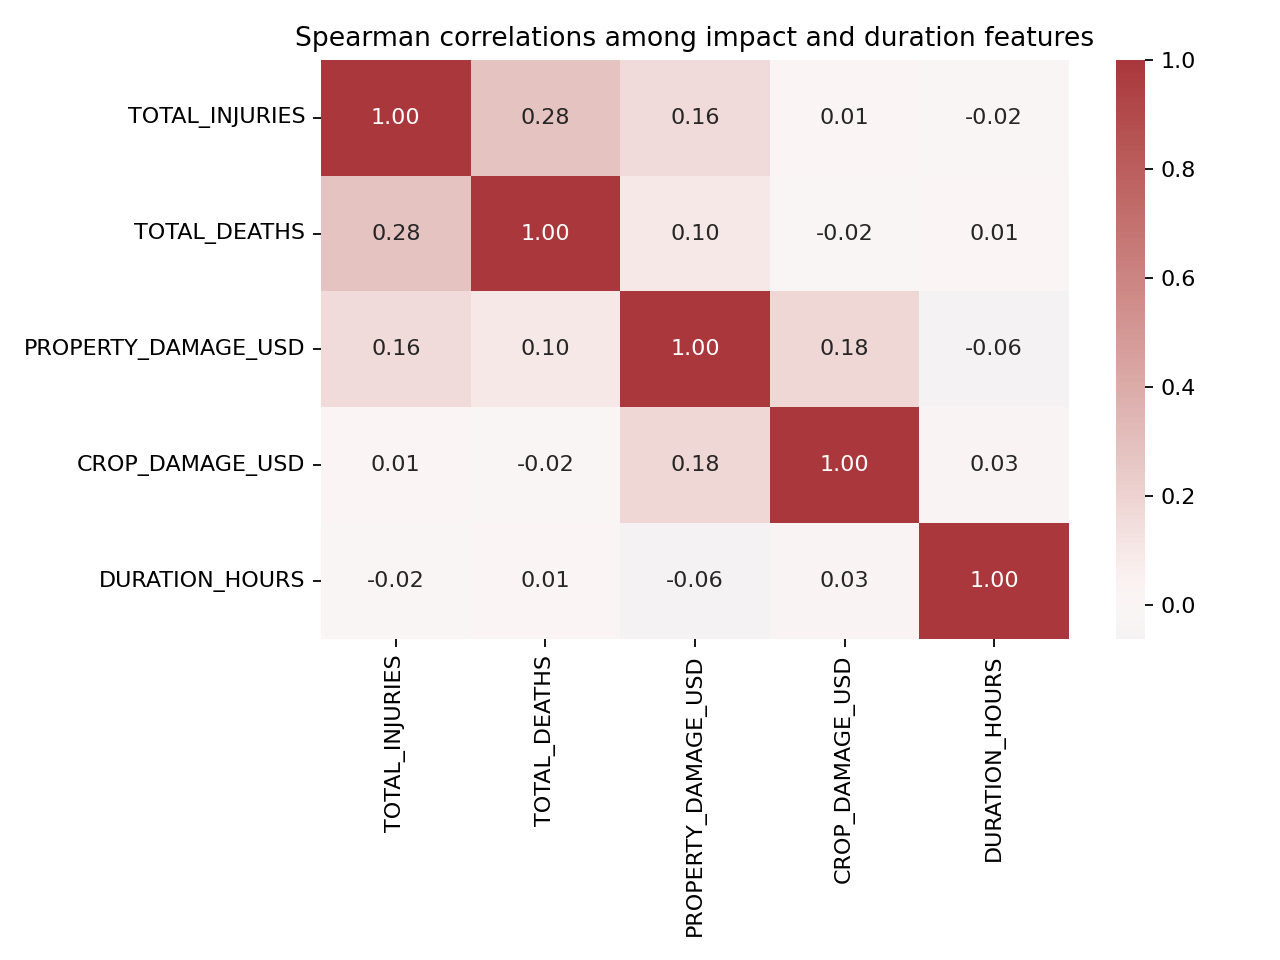
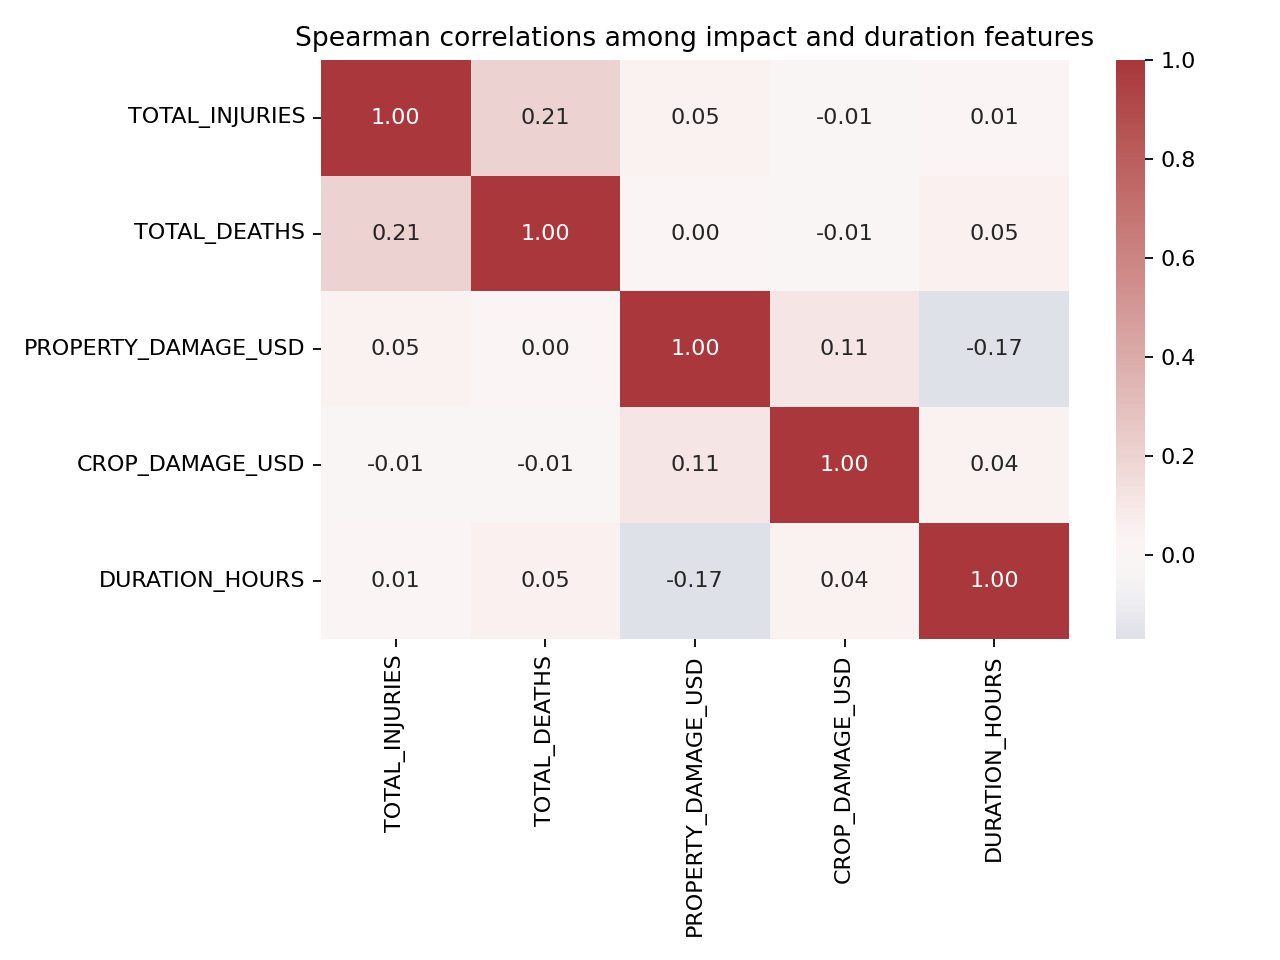
dataset shrinking

diff --git a/main.py b/main.py
@@ -24,7 +24,7 @@ from src.preprocessing import preprocess_data
 
 ROOT = Path(__file__).resolve().parent
 PROCESSED = ROOT / "data" / "processed" / "cleaned_storm_data.csv"
-RAW = ROOT / "data" / "raw" / "StormEvents_details_all.csv"
+RAW = ROOT / "data" / "raw" / "StormEvents_details_2010_2020.csv"
 PLOTS = ROOT / "outputs" / "plots"
 METRICS = ROOT / "outputs" / "metrics"
 PROFILES = ROOT / "outputs" / "cluster_profiles"
@@ -39,10 +39,14 @@ LOAD_COLUMNS = [
 
 
 def load_analysis_data():
-    if PROCESSED.exists():
+    processed_is_current = (
+        PROCESSED.exists()
+        and (not RAW.exists() or PROCESSED.stat().st_mtime >= RAW.stat().st_mtime)
+    )
+    if processed_is_current:
         source = PROCESSED
     elif RAW.exists():
-        print("Processed dataset is missing; preprocessing the raw NOAA details file first.")
+        print("Processed dataset is missing or older than the raw NOAA file; preprocessing it first.")
         raw_data = pd.read_csv(RAW, low_memory=False)
         preprocess_data(raw_data)
         del raw_data
@@ -51,7 +55,7 @@ def load_analysis_data():
         source = RAW
     if not source.exists():
         raise FileNotFoundError(
-            "NOAA details CSV was not found. Place StormEvents_details_all.csv in data/raw."
+            "NOAA details CSV was not found. Place StormEvents_details_2010_2020.csv in data/raw."
         )
     print(f"Loading analysis columns from {source}")
     df = pd.read_csv(source, usecols=lambda col: col in LOAD_COLUMNS, low_memory=False)
@@ -67,6 +71,7 @@ def main():
     full = load_analysis_data()
     print("Loaded shape:", full.shape)
     total_rows = len(full)
+    year_min, year_max = int(full["YEAR"].min()), int(full["YEAR"].max())
 
     # EDA uses all rows; expensive clustering uses one reproducible random sample.
     sample = full.sample(n=min(SAMPLE_SIZE, len(full)), random_state=RANDOM_STATE).copy()
@@ -129,10 +134,24 @@ def main():
     comparison.to_csv(METRICS / "final_comparison.csv", index=False)
     selected_h_row = hierarchy.loc[hierarchy["configuration"] == best_h_name].iloc[0]
     selected_d_row = density.loc[density["configuration"] == best_d_name].iloc[0]
-    ward_k4_ari = adjusted_rand_score(hierarchy_labels[best_h_name], hierarchy_labels.get("ward_k4", hierarchy_labels[best_h_name]))
-    dbscan_neighbour = "dbscan_eps1.6_min15"
+    ward_neighbours = [name for name in hierarchy_labels if name.startswith("ward_k") and name != best_h_name]
+    ward_neighbour = min(
+        ward_neighbours,
+        key=lambda name: abs(int(name.rsplit("k", 1)[1]) - int(best_h_name.rsplit("k", 1)[1])),
+    ) if ward_neighbours and best_h_name.startswith("ward_k") else ""
+    if not ward_neighbour:
+        ward_neighbour = "ward_k4" if best_h_name != "ward_k4" else "ward_k3"
+    ward_neighbour_ari = adjusted_rand_score(hierarchy_labels[best_h_name], hierarchy_labels[ward_neighbour])
+    same_min_samples = density[
+        (density["min_samples"] == selected_d_row["min_samples"])
+        & (density["configuration"] != best_d_name)
+    ].copy()
+    if same_min_samples.empty:
+        same_min_samples = density[density["configuration"] != best_d_name].copy()
+    same_min_samples["eps_difference"] = (same_min_samples["eps"] - selected_d_row["eps"]).abs()
+    dbscan_neighbour = same_min_samples.sort_values("eps_difference").iloc[0]["configuration"]
     dbscan_neighbour_ari = adjusted_rand_score(
-        density_labels[best_d_name], density_labels.get(dbscan_neighbour, density_labels[best_d_name])
+        density_labels[best_d_name], density_labels[dbscan_neighbour]
     )
 
     pca, coords, loadings = fit_pca(X)
@@ -147,12 +166,13 @@ def main():
         write_profiles(sample, labels, "hierarchical" if name == best_h_name else "dbscan", PROFILES, PLOTS)
 
     (METRICS / "selection_notes.txt").write_text(
-        f"Analysis sample: {len(sample)} of {total_rows} dataset rows (random_state={RANDOM_STATE}; sample_size={SAMPLE_SIZE}).\n"
+        f"Dataset years: {year_min}-{year_max}; {total_rows} events.\n"
+        f"Analysis sample: {len(sample)} (random_state={RANDOM_STATE}; maximum_sample_size={SAMPLE_SIZE}).\n"
         f"Clustering was fit in standardized imputed feature space, not PCA space.\n"
         f"PCA PC1+PC2 explained variance: {pca.explained_variance_ratio_.sum():.4f}.\n"
         f"Selected hierarchical configuration: {best_h_name}. {hierarchical_note}\n"
         f"Hierarchical silhouette (deterministic evaluation sample): {selected_h_row['silhouette_evaluation_sample']:.4f}.\n"
-        f"ARI against ward_k4: {ward_k4_ari:.4f}.\n"
+        f"ARI against {ward_neighbour}: {ward_neighbour_ari:.4f}.\n"
         f"Selected DBSCAN configuration: {best_d_name}. {dbscan_note}\n"
         f"DBSCAN non-noise silhouette: {selected_d_row['silhouette_non_noise_evaluation_sample']:.4f}; noise: {selected_d_row['noise_count']} ({selected_d_row['noise_percentage']:.2f}%).\n"
         f"ARI against {dbscan_neighbour}: {dbscan_neighbour_ari:.4f}.\n"

diff --git a/src/hierarchical.py b/src/hierarchical.py
@@ -29,7 +29,13 @@ def run_hierarchical(X, sample_df, out_dir, metrics_dir, cluster_counts=(3, 4, 5
         for k in cluster_counts:
             labels = fcluster(tree, t=k, criterion="maxclust")
             distinct = np.unique(labels)
-            score = silhouette_score(X[eval_idx], labels[eval_idx]) if 1 < len(distinct) < len(eval_idx) else np.nan
+            evaluation_labels = labels[eval_idx]
+            evaluation_clusters = np.unique(evaluation_labels)
+            score = (
+                silhouette_score(X[eval_idx], evaluation_labels)
+                if 1 < len(evaluation_clusters) < len(eval_idx)
+                else np.nan
+            )
             key = f"{method}_k{k}"
             label_sets[key] = labels
             sizes = pd.Series(labels).value_counts()

diff --git a/src/interpretation.py b/src/interpretation.py
@@ -29,5 +29,9 @@ def write_profiles(df, labels, name, output_dir, plot_dir):
     fig, ax = plt.subplots(figsize=(10, 6))
     sns.heatmap(scaled, cmap="vlag", center=0, annot=True, fmt=".1f", ax=ax)
     ax.set(title=f"{name.title()} median profiles (standardised for display)", xlabel="Feature", ylabel="Cluster")
-    fig.tight_layout(); fig.savefig(plot_dir / f"{name}_cluster_profile_heatmap.png", dpi=160); plt.close(fig)
+    fig.tight_layout()
+    fig.savefig(plot_dir / f"{name}_cluster_profile_heatmap.png", dpi=160)
+    if name == "hierarchical":
+        fig.savefig(plot_dir / "cluster_profile_heatmap.png", dpi=160)
+    plt.close(fig)
     return numeric, composition

diff --git a/src/data_loader.py b/src/data_loader.py
@@ -6,7 +6,7 @@ from pathlib import Path
 # Dataset directory
 DATA_DIR = Path(__file__).resolve().parent.parent / "data" / "raw"
 
-DETAILS_FILE = DATA_DIR / "StormEvents_details_all.csv"
+DETAILS_FILE = DATA_DIR / "StormEvents_details_2010_2020.csv"
 
 
 def load_details_data():
@@ -39,6 +39,7 @@ def inspect_details_data(df):
     print("\n========== YEAR COVERAGE ==========")
 
     print(df["YEAR"].describe())
+    print("Year range:", int(df["YEAR"].min()), "to", int(df["YEAR"].max()))
 
     print("\n========== EVENT TYPE DISTRIBUTION ==========")
 

diff --git a/src/preprocessing.py b/src/preprocessing.py
@@ -12,7 +12,7 @@ PROJECT_DIR = Path(__file__).resolve().parent.parent
 
 RAW_FILE = (
     PROJECT_DIR / "data" / "raw"
-    / "StormEvents_details_all.csv"
+    / "StormEvents_details_2010_2020.csv"
 )
 
 PROCESSED_DIR = PROJECT_DIR / "data" / "processed"

diff --git a/README.md b/README.md
@@ -4,9 +4,9 @@ An introductory, reproducible unsupervised learning project using NOAA's Storm E
 
 ## Dataset
 
-Put `StormEvents_details_all.csv` in `data/raw/`. The project uses the details table because one row represents one event. It does not use the merged file, whose one-to-many joins can multiply events. The NOAA files are excluded from Git.
+Put `StormEvents_details_2010_2020.csv` in `data/raw/`. This project currently analyzes the 2010–2020 subset. It uses the details table because one row represents one event. It does not use the merged file, whose one-to-many joins can multiply events. The NOAA files are excluded from Git.
 
-The preprocessing stage reads the full details file once and writes `data/processed/cleaned_storm_data.csv`. `main.py` reuses that file when present and reads only the columns it needs. Delete the processed file if you need to rebuild it from the raw CSV.
+The preprocessing stage reads the details file and writes `data/processed/cleaned_storm_data.csv`. `main.py` reuses the processed file when it is newer than the raw CSV; otherwise it refreshes it automatically. The generated processed data should reflect the same 2010–2020 date range.
 
 ## Run in Windows PowerShell
 
@@ -18,7 +18,7 @@ python -u src/preprocessing.py
 python -u main.py
 ```
 
-Preprocessing is already complete if `data/processed/cleaned_storm_data.csv` exists. The analysis run uses a fixed random sample of up to 2,500 events (`random_state=42`) for both clustering methods. Hierarchical clustering requires pairwise comparisons and should not be run on all 1.65 million records.
+`main.py` refreshes preprocessing when needed. The analysis uses a fixed random sample of up to 2,500 events (`random_state=42`) for both clustering methods. Hierarchical clustering requires pairwise comparisons, so it runs on this reproducible sample rather than the full dataset.
 
 ## Preprocessing and feature choices
 
